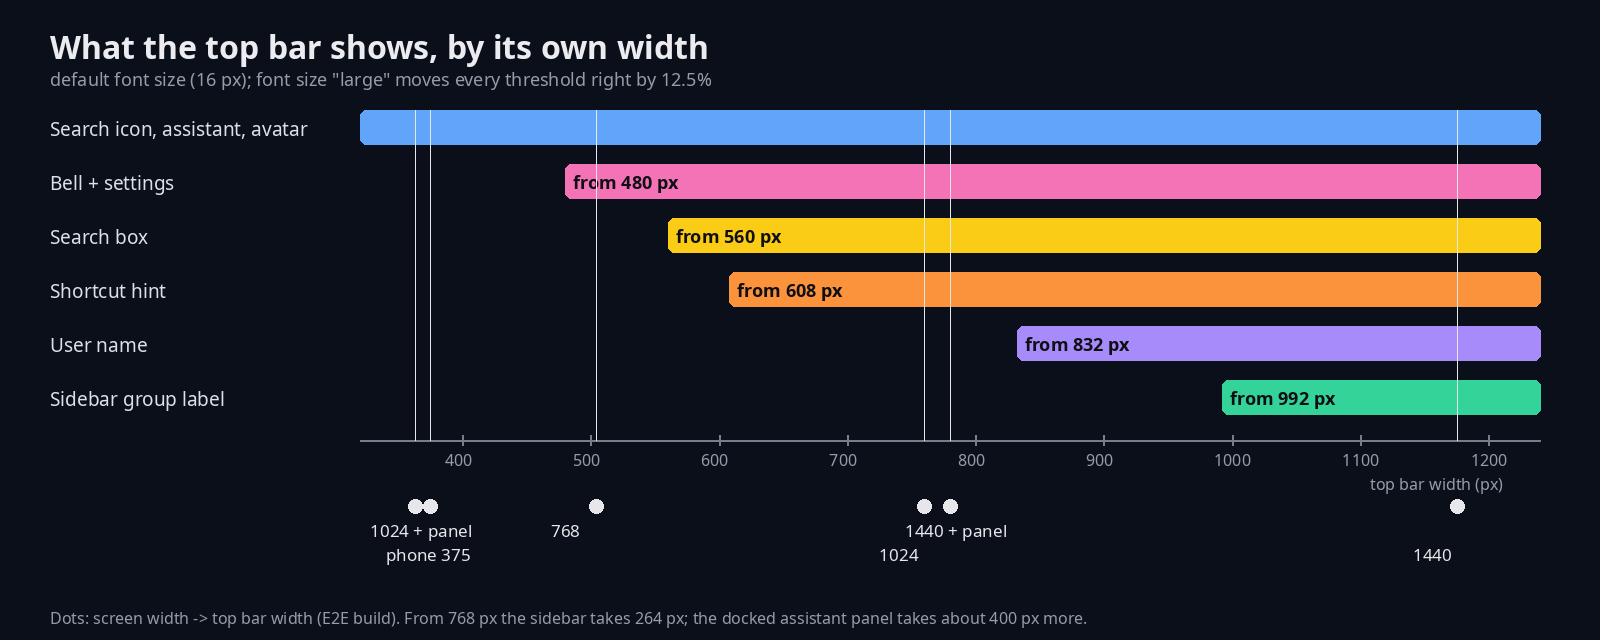
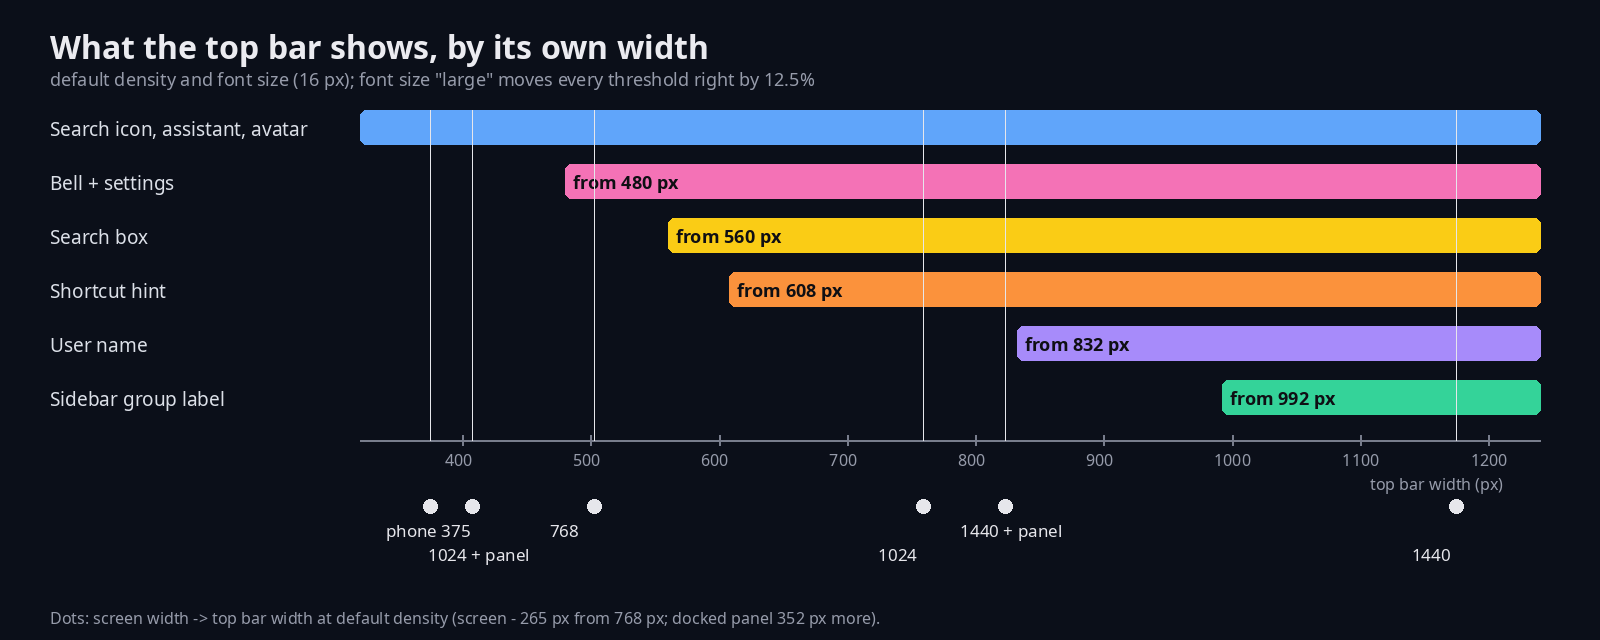
docs(vertex): correct header-height and width figure after full review
- MASTER.md: --header-height is --spacing x 12 with a 45px floor, not a fixed 3rem.
- widths.png dots at default density; before-after caption names the E2E appearance.
Card: vertex-dossier-768-overflow

diff --git a/docs/vertex-rebuild/designs/portal-topbar-reflow/design.md b/docs/vertex-rebuild/designs/portal-topbar-reflow/design.md
@@ -14,7 +14,7 @@ Every signed-in portal page has a top bar (`PortalTopbar` in [portal-shell.tsx](
 
 ![Top bar before and after at 768 px and at 1024 px with the assistant panel](before-after.png)
 
-The figure uses mock data from the end-to-end (E2E) test server.
+The figure uses mock data from the end-to-end (E2E) test server; its user is seeded with density "comfortable" and font size "large".
 
 - From a screen width of 768 px to about 950 px the page scrolls sideways. On the live site at 768 px, `document.documentElement.scrollWidth` is 939 px on `/research/reports/AAPL`, `/research` and `/todos` (live check 2026-11-19, read-only viewer account). The mock figure shows 907 px because the mock user name is shorter. All pages show it, so the cause is the shared top bar, not the dossier page.
 - At 1024 px with the assistant panel docked (from 1024 px the panel is a column beside the page; below it is an overlay sheet), notifications, settings, the assistant toggle and the user menu move past the right edge of the top bar, under the panel. The pointer cannot reach them.

diff --git a/design-system/darkfactory/MASTER.md b/design-system/darkfactory/MASTER.md
@@ -297,7 +297,7 @@ Use mobile-first styles. Content must remain usable between targets, not only at
 | `--gutter-mobile` | `--spacing × 3` | 375px horizontal gutter |
 | `--gutter-tablet` | `--spacing × 4` | 768px horizontal gutter |
 | `--gutter-desktop` | `--spacing × 6` | 1024px+ horizontal gutter |
-| `--header-height` | `3rem` (at least 45px) | Portal top bar and sidebar brand row |
+| `--header-height` | `--spacing × 12`, at least 45px | Portal top bar and sidebar brand row |
 | `--sidebar-width` | `13rem` | Portal desktop sidebar |
 
 ### Responsive rules
